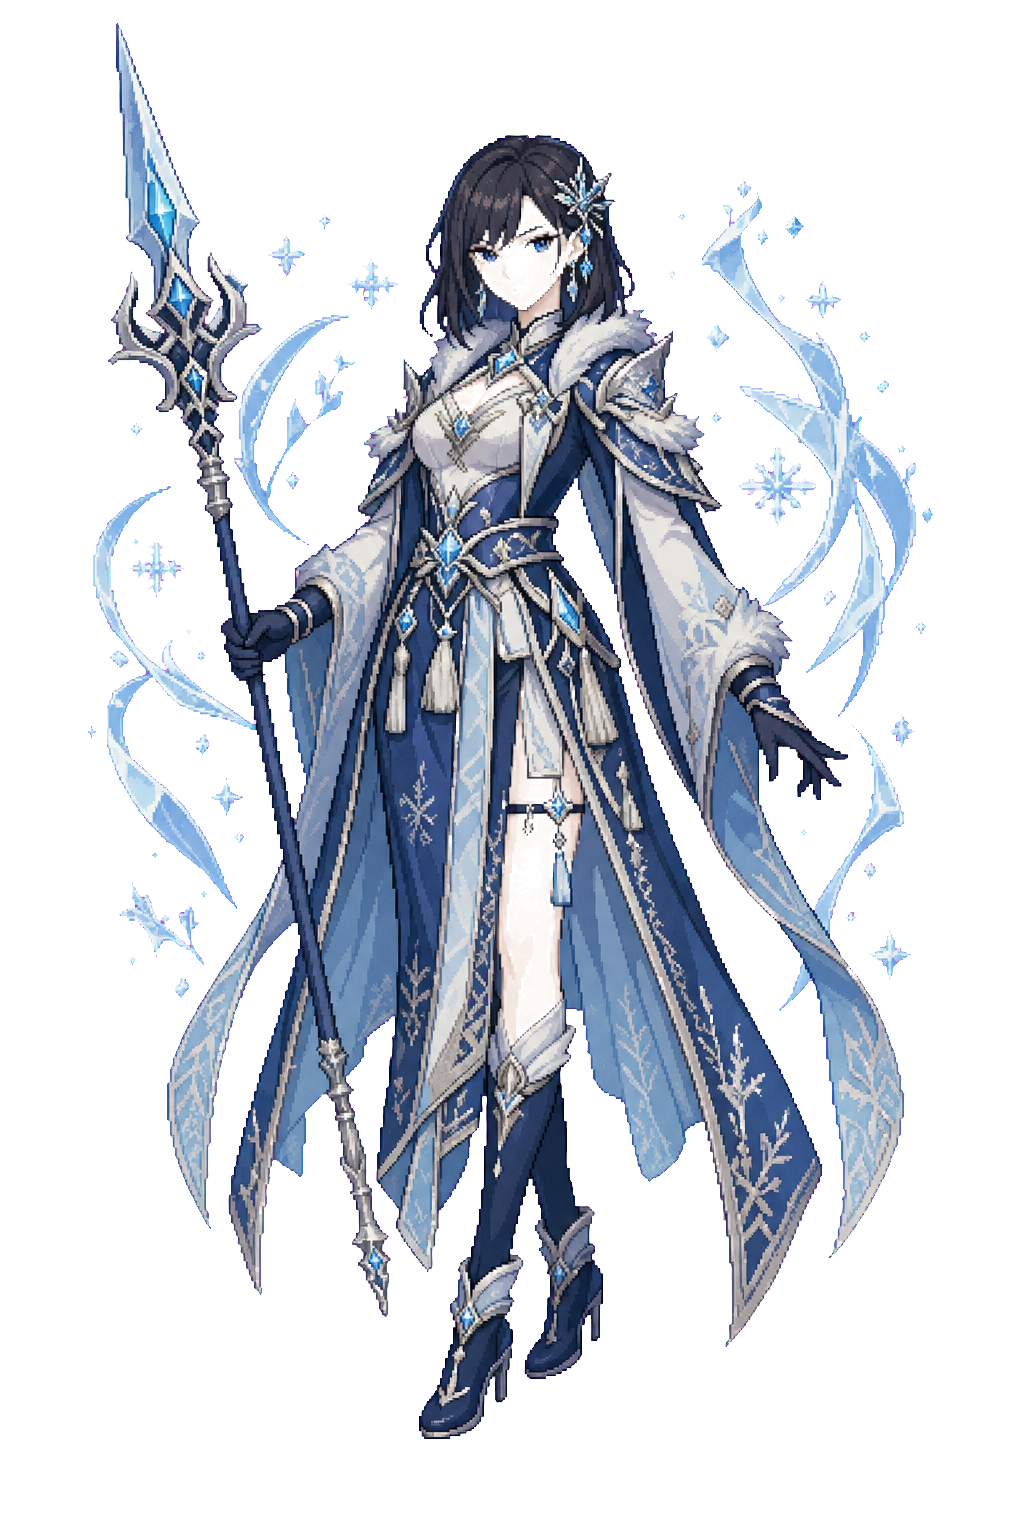
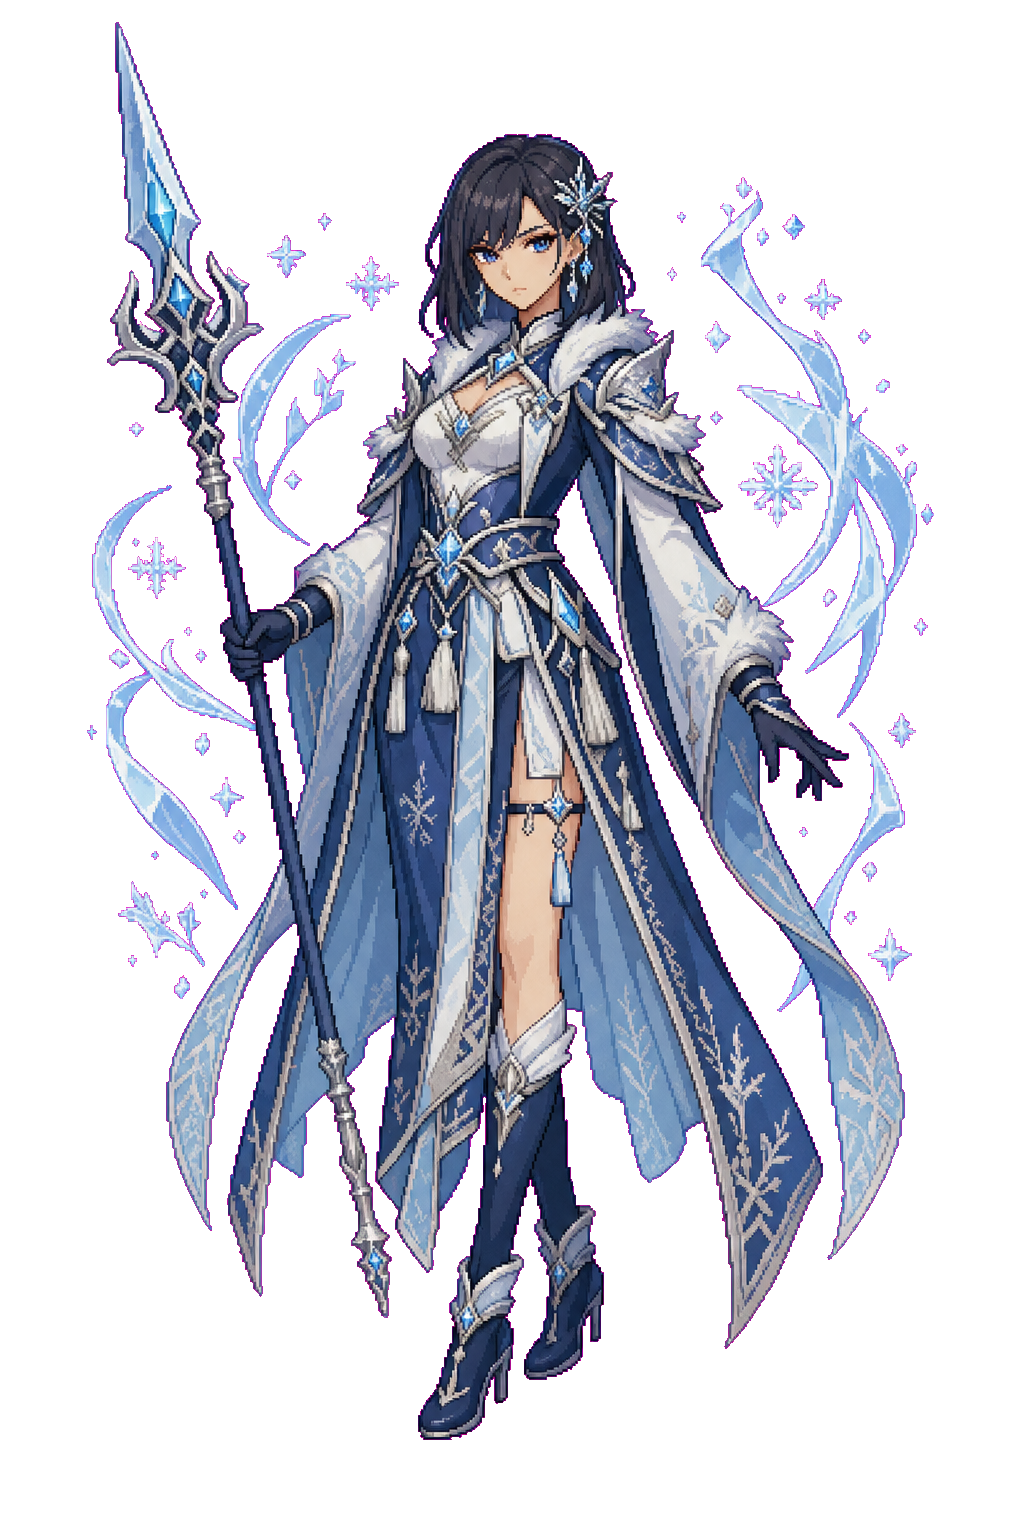
Release WishSim v0.6.1

diff --git a/src/ui.rs b/src/ui.rs
@@ -1026,12 +1026,14 @@ fn team_character_select(frame: &mut Frame, app: &App, team: usize, slot: usize,
             })
         })
         .collect::<Vec<_>>();
+    let scroll = selected_list_scroll(cursor, area.height.saturating_sub(2) as usize);
     frame.render_widget(
         Paragraph::new(if lines.is_empty() {
             vec![Line::from("No characters owned. Visit Wish first.").fg(DIM)]
         } else {
             lines
         })
+        .scroll((scroll as u16, 0))
         .block(
             Block::new()
                 .borders(Borders::ALL)
@@ -1280,12 +1282,14 @@ fn character_quick_select(
             .style(style)
         })
         .collect::<Vec<_>>();
+    let scroll = selected_list_scroll(cursor, list.height.saturating_sub(2) as usize);
     frame.render_widget(
         Paragraph::new(if lines.is_empty() {
             vec![Line::from("No owned characters match these filters.").fg(DIM)]
         } else {
             lines
         })
+        .scroll((scroll as u16, 0))
         .block(
             Block::new()
                 .borders(Borders::ALL)
@@ -1302,6 +1306,10 @@ fn character_quick_select(
         .fg(DIM),
         help,
     );
+}
+
+fn selected_list_scroll(cursor: usize, visible_rows: usize) -> usize {
+    cursor.saturating_sub(visible_rows.saturating_sub(1))
 }
 
 fn character_weapon_select(
@@ -4001,5 +4009,13 @@ mod tests {
                 .all(|area| area.width >= 20 && area.height >= 4)
         );
         assert!(areas.windows(2).all(|pair| pair[0] != pair[1]));
+    }
+
+    #[test]
+    fn selected_roster_row_stays_inside_the_visible_viewport() {
+        assert_eq!(selected_list_scroll(0, 8), 0);
+        assert_eq!(selected_list_scroll(7, 8), 0);
+        assert_eq!(selected_list_scroll(8, 8), 1);
+        assert_eq!(selected_list_scroll(28, 8), 21);
     }
 }

diff --git a/logs/2026-07-23-yeoungin-alpha-roster-scroll-fix.md b/logs/2026-07-23-yeoungin-alpha-roster-scroll-fix.md
@@ -1,0 +1,41 @@
+# 2026-07-23 — Yeoungin alpha and roster scrolling fix
+
+## Baseline and request
+
+- Begins from published v0.6.0 documentation tip `96dbb5d`, release commit `2fe8bd1`, and tag `v0.6.0`.
+- Reported that Yeoungin's face rendered completely black and that character-selection lists did not scroll when the cursor moved below the final visible row.
+- The fix is currently in the working tree and must not be described as committed or published until explicitly requested.
+
+## Yeoungin portrait repair
+
+- Compared the preserved built-in image-generation source with `assets/characters/yeoungin.png`. The source skin sample at `(512, 300)` was opaque `(230, 200, 170, 255)`, while the released asset had the same RGB value with alpha zero.
+- The previous soft matte classified red-dominant skin as magenta spill, and alpha contraction further removed small pixel clusters. This explains why the face collapsed into dark hair/outline pixels at terminal size.
+- Rebuilt the same generated portrait from its preserved source using the imagegen chroma helper in hard-key mode with the sampled magenta border and tolerance 42. No soft matte, despill, edge contraction, regeneration, or design change was applied.
+- The repaired sample remains `(230, 200, 170, 255)`. The final asset remains a 1024×1536 RGBA cutout with transparent corners and was visually inspected.
+
+## Roster viewport repair
+
+- Added one shared `selected_list_scroll()` calculation in `src/ui.rs`.
+- Applied it to both `ATTACH CHARACTER` team selection and the filtered `CHARACTER ROSTER` quick selector.
+- The viewport remains at row zero while the cursor fits, then advances just enough to keep the selected entry on the final visible row.
+- Added a focused boundary test covering the first row, exact viewport boundary, first overflow row, and deep roster selection.
+
+## Files and compatibility
+
+- `assets/characters/yeoungin.png`: corrected alpha matte only.
+- `src/ui.rs`: shared selected-row viewport offset and focused test.
+- `CHANGELOG.md` and `docs/V0_2_0_CONSISTENCY_GUIDE.md`: user-facing fix and durable scrolling requirement.
+- No catalog names, saves, pity, inventory, teams, equipment, abilities, or combat formulas changed.
+
+## Validation and limitations
+
+- Passed `cargo fmt --all -- --check`, `cargo check --locked`, `cargo test --locked` (38 passed, 0 failed), `cargo clippy --locked --all-targets -- -D warnings`, `cargo build --release --locked`, and `git diff --check`.
+- Passed explicit Yeoungin asset assertions: 1024×1536 RGBA, four transparent corners, and repaired face sample `(230, 200, 170, 255)`.
+- Shared raster loading/transparency and Ghostty/Kitty registry tests remain green.
+- Manual confirmation in a real Ghostty window remains recommended because Ghostty displays the original PNG while ANSI uses the downsampled gallery.
+
+## Safe backtracking
+
+- Restore only `assets/characters/yeoungin.png` to reverse the alpha repair; do not alter her registries or catalog entry.
+- Remove only `selected_list_scroll()`, its two `.scroll(...)` applications, and its focused test to reverse roster viewport behavior.
+- Do not revert the v0.6.0 character, Battle Test, ability, release-companion, or publication changes.

diff --git a/logs/2026-07-23-v0-6-1-release.md b/logs/2026-07-23-v0-6-1-release.md
@@ -1,0 +1,32 @@
+# 2026-07-23 — v0.6.1 patch release
+
+## Intent
+
+- Publish the corrected Yeoungin alpha matte and cursor-following viewport behavior for both character selection lists.
+- Preserve the complete v0.6.0 feature set and Ghostty-primary rendering contract.
+
+## Version and scope
+
+- Release version: `0.6.1` / tag `v0.6.1`.
+- Published baseline: v0.6.0 documentation tip `96dbb5d`, release commit `2fe8bd1`, and tag `v0.6.0`.
+- Patch details and rollback guidance are documented in `2026-07-23-yeoungin-alpha-roster-scroll-fix.md`.
+- Version metadata changes: `Cargo.toml`, `Cargo.lock`, and `CHANGELOG.md`.
+
+## Publication plan
+
+1. Run locked formatting, checks, tests, strict Clippy, release build, explicit Yeoungin alpha assertions, and diff validation.
+2. Commit the patch and push `main`.
+3. Create and push annotated tag `v0.6.1`.
+4. Wait for the GitHub release workflow and verify all four platform archives.
+5. Update both macOS URLs and SHA-256 values in `TMAH1602/homebrew-wishsim`.
+6. Run Ruby syntax, Homebrew style/audit/test checks, push the tap, upgrade the installed formula, and verify `wishsim --version`.
+
+## Validation and final results
+
+- Pre-publication validation passed: `cargo fmt --all -- --check`, `cargo check --locked`, `cargo test --locked` (38 passed, 0 failed), `cargo clippy --locked --all-targets -- -D warnings`, `cargo build --release --locked`, `git diff --check`, and explicit Yeoungin 1024×1536 RGBA/corner/face-pixel assertions.
+- Source commit, tag, workflows, checksums, tap commit, and installed version will be recorded only after confirmed publication.
+
+## Safe backtracking
+
+- Do not rewrite the published v0.6.0 or v0.6.1 tags. If a published correction needs another fix, create a later patch release.
+- Before publication, reverse only the version/release-note hunks and this release log if packaging is cancelled. Do not remove the underlying fixes.

diff --git a/CHANGELOG.md b/CHANGELOG.md
@@ -2,6 +2,11 @@
 
 All notable changes to WishSim will be documented here.
 
+## 0.6.1 - 2026-07-23
+
+- Repaired Yeoungin's portrait alpha matte so her face and other skin pixels remain visible in full-resolution and downsampled terminal rendering.
+- Character attachment and Character Management roster lists now scroll to keep the highlighted row visible.
+
 ## 0.6.0 - 2026-07-23
 
 - Added four-star Korean-inspired release companions Seo-yeon, an Electro catalyst tactician, and Ji-ho, a Pyro sword guardian, with complete profiles, abilities, stats, filters, archives, and transparent artwork.

diff --git a/docs/V0_2_0_CONSISTENCY_GUIDE.md b/docs/V0_2_0_CONSISTENCY_GUIDE.md
@@ -245,6 +245,7 @@ Avoid widget-local hidden state or blocking animation loops. Rendering should be
 - Ascension is derived from owned character copies rather than separately persisted. The current display begins at N0 for one copy and caps at N10 when the inventory reaches ten copies, following the product convention established on 2026-07-20.
 - The character carousel keeps the selected full art centered between stats and resonance/equipment information. The weapon picker places character and weapon art side by side in both ANSI and native protocol modes.
 - Character Management also exposes one canonical quick-selector phase. Its rarity, element, and weapon filters compose against owned characters and return the selected canonical roster index; do not duplicate character profiles in the filter UI.
+- Character attachment and quick-selector lists must scroll their rendered paragraph viewport as the cursor moves beyond the visible row count. Keyboard cursor bounds alone do not make later roster entries visible.
 - Equipment selection shows one row per compatible weapon name, not one row per copy. Each row reports its unequipped count; weapon names use rarity color, the current character's weapon uses the gold `◆` marker, and weapons assigned elsewhere use `●` without printing holder names. Hide weapons with no copy available to the current character.
 - Team display uses three side-by-side art cards with name and element symbol beneath each portrait. Ghostty/Kitty must receive all three placements from the shared multi-image renderer.
 